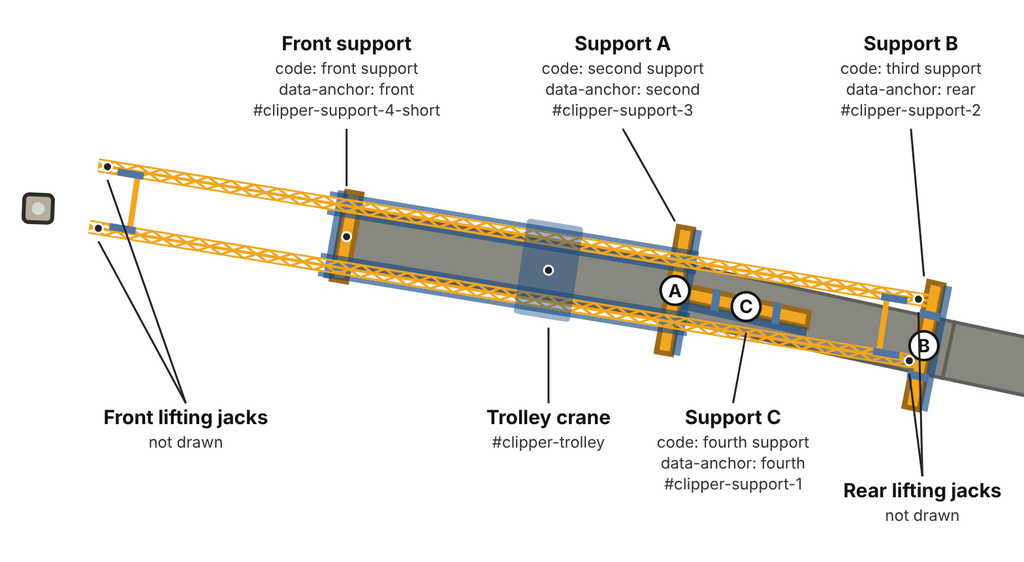
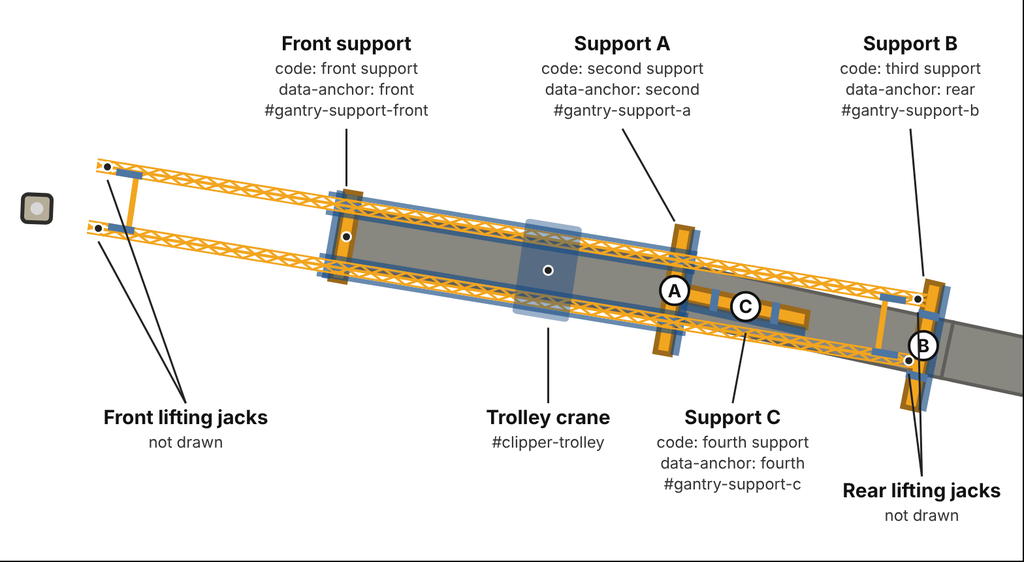
Rename the gantry svg ids

diff --git a/src/MapView/gantryAnimation.js b/src/MapView/gantryAnimation.js
@@ -194,10 +194,10 @@ export function resumeGantry() {
 export async function playGantry(svg) {
   const gantry = svg.querySelector("#clayton-clipper"),
     trolley = svg.querySelector("#clipper-trolley"),
-    beam = svg.querySelector("#clipper-support-1"),
-    frontBeam = svg.querySelector("#clipper-support-4-short"),
-    secondBeam = svg.querySelector("#clipper-support-3"),
-    thirdBeam = svg.querySelector("#clipper-support-2");
+    beam = svg.querySelector("#gantry-support-c"),
+    frontBeam = svg.querySelector("#gantry-support-front"),
+    secondBeam = svg.querySelector("#gantry-support-a"),
+    thirdBeam = svg.querySelector("#gantry-support-b");
   if (!gantry || !trolley || !beam || !frontBeam || !secondBeam || !thirdBeam) return false;
   // a moment for the page to settle and the gantry layer to show: a hidden element has no size to measure
   await pause(1000);
@@ -244,8 +244,8 @@ export async function playGantry(svg) {
     return a.finished;
   }
 
-  // THE FOURTH SUPPORT is four groups (beam, walkway and two pads) side by side in #clayton-clipper, all marked
-  // data-anchor="fourth"; they get the same moves so they stay together.
+  // THE FOURTH SUPPORT is four groups (beam, walkway and two wheel assemblies) side by side in #clayton-clipper, all
+  // marked data-anchor="fourth"; they get the same moves so they stay together.
   // Its groups live in #clayton-clipper's frame, which is squashed to 55% across (the scale(0.55 1) above it): a turn in
   // that frame would stretch the beam as it turned. So it is moved and turned in the map's own frame (the <svg>, the same
   // scale both ways), and the move is carried into #clayton-clipper's frame by `toMap` and back out by `fromMap`.

diff --git a/src/lib/placeGantry.js b/src/lib/placeGantry.js
@@ -248,10 +248,10 @@ export function gantryMoves(root, D, S) {
       to = add(now[rule.end], add(mul(now.u, dot(off, was.u)), mul(now.v, dot(off, was.v))));
     }
     if (rule.edge) {
-      // the support is its beam and its walkway (the pads sit on top): the middle of its rear edge (its two corners furthest
-      // back) or front edge (furthest forward), carried through the move
+      // the support is its beam and its walkway (the wheel assemblies sit on top): the middle of its rear edge (its two
+      // corners furthest back) or front edge (furthest forward), carried through the move
       const corners = [
-        ...gantry.querySelectorAll(`:scope > [data-anchor="${a}"] > :not(.clipper-support-pad)`),
+        ...gantry.querySelectorAll(`:scope > [data-anchor="${a}"] > :not(.gantry-support-wheels)`),
       ].flatMap((el) => {
         const b = el.getBBox();
         return [

diff --git a/src/MapView/supportBorders.js b/src/MapView/supportBorders.js
@@ -1,4 +1,4 @@
-// The gantry's yellow support beams (#clipper-support-1 to -4) are drawn inside the gantry's squashed frame (the
+// The gantry's yellow support beams (#gantry-support-*) are drawn inside the gantry's squashed frame (the
 // scale(0.55 1) in map.svg), so their brown border was squashed with them: full width on the sides that run across
 // the gantry, 55% on the sides that run along it. Turning a beam (the gantry animation does) turned its thin and thick
 // sides with it, and when the animation's cycle snapped back (placeGantry puts each beam's own drawing in each place),
@@ -8,7 +8,7 @@
 // changes.
 
 /** The gantry's support beams. */
-const BEAMS = 'rect[id^="clipper-support-"]';
+const BEAMS = 'rect[id^="gantry-support-"]';
 
 /**
  * The largest stretch of a matrix's turn-and-scale part: how many screen pixels one unit becomes in its least squashed
